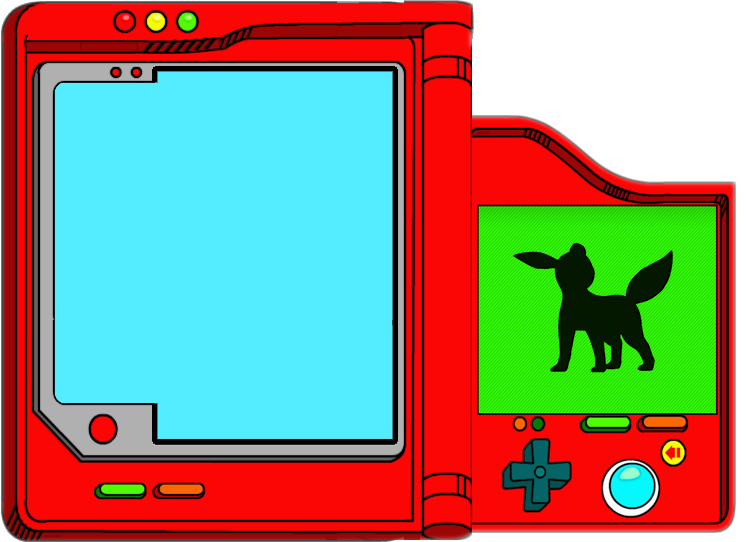
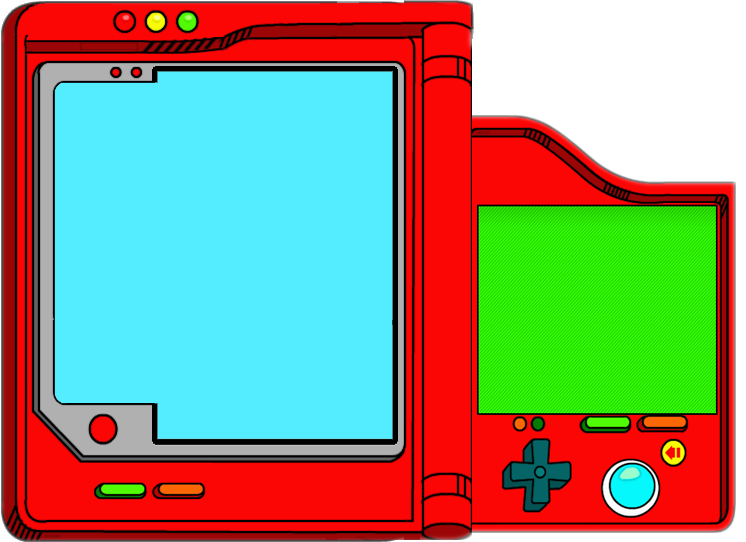
PreviewImage in Form CreatePokemon

Changed region(s): [[0.6783, 0.4428, 0.9249, 0.7085]]

diff --git a/client/src/pages/CreatePokemon/CreatePokemon.js b/client/src/pages/CreatePokemon/CreatePokemon.js
@@ -17,6 +17,8 @@ import {
   SelectedTypeOption,
   SelectedTypeButtonOption,
   SubmitButton,
+  PreviewImage,
+  PreviewImageContainer,
 } from "./CreatePokemon.styled-component";
 
 import pokedex from "../../assets/pokedex.png";
@@ -152,155 +154,165 @@ const CreatePokemon = () => {
   return (
     <CreatePokemonContainer>
       <ImageOverlay src={pokedex} />
-      <FormContainer>
-        <form action="POST" onSubmit={handleSubmit}>
-          <InputContainer>
-            {errors.name && <ErrorMsg>{errors.name}</ErrorMsg>}
-            <StyledLabel>Pokemon Name:</StyledLabel>
-            <StyledInput
-              autoComplete="off"
-              type="text"
-              value={pokemonData.name}
-              name="name"
-              placeholder="Pokemon Name"
-              title="Only letters are allowed without special characters"
-              required
-              onChange={handleChange}
-            />
-          </InputContainer>
-          <InputContainer>
-            {errors.img && <ErrorMsg>{errors.img}</ErrorMsg>}
-            <StyledLabel>Pokemon Image:</StyledLabel>
-            <StyledInput
-              placeholder="Pokemon image Link"
-              autoComplete="off"
-              type="text"
-              value={pokemonData.img}
-              name="img"
-              required
-              onChange={handleChange}
-            />
-          </InputContainer>
-          <InputContainer>
-            {errors.hp && <ErrorMsg>{errors.hp}</ErrorMsg>}
-            <StyledLabel>Pokemon hp:</StyledLabel>
-            <StyledInput
-              autoComplete="off"
-              type="text"
-              value={pokemonData.hp}
-              name="hp"
-              placeholder="Pokemon level of hp"
-              required
-              title="Only numbers are allowed"
-              onChange={handleChange}
-            />
-          </InputContainer>
-          <InputContainer>
-            {errors.attack && <ErrorMsg>{errors.attack}</ErrorMsg>}
-            <StyledLabel>Pokemon attack:</StyledLabel>
-            <StyledInput
-              autoComplete="off"
-              type="text"
-              value={pokemonData.attack}
-              name="attack"
-              placeholder="Pokemon level of attack"
-              title="Only numbers are allowed"
-              required
-              onChange={handleChange}
-            />
-          </InputContainer>
-          <InputContainer>
-            {errors.defense && <ErrorMsg>{errors.defense}</ErrorMsg>}
-            <StyledLabel>Pokemon defense:</StyledLabel>
-            <StyledInput
-              autoComplete="off"
-              type="text"
-              value={pokemonData.defense}
-              name="defense"
-              placeholder="Pokemon level of defense"
-              title="Only numbers are allowed"
-              required
-              onChange={handleChange}
-            />
-          </InputContainer>
-          <InputContainer>
-            {errors.speed && <ErrorMsg>{errors.speed}</ErrorMsg>}
-            <StyledLabel>Pokemon speed:</StyledLabel>
-            <StyledInput
-              autoComplete="off"
-              type="text"
-              value={pokemonData.speed}
-              name="speed"
-              placeholder="Pokemon speed"
-              title="Only numbers are allowed"
-              onChange={handleChange}
-            />
-          </InputContainer>
-          <InputContainer>
-            {errors.height && <ErrorMsg>{errors.height}</ErrorMsg>}
-            <StyledLabel>Pokemon height:</StyledLabel>
-            <StyledInput
-              autoComplete="off"
-              type="decimal"
-              value={pokemonData.height}
-              name="height"
-              placeholder="Pokemon height"
-              title="Only numbers are allowed"
-              onChange={handleChange}
-            />
-          </InputContainer>
-          <InputContainer>
-            {errors.weight && <ErrorMsg>{errors.weight}</ErrorMsg>}
-            <StyledLabel>Pokemon weight:</StyledLabel>
-            <StyledInput
-              autoComplete="off"
-              type="decimal"
-              value={pokemonData.weight}
-              name="weight"
-              placeholder="Pokemon weight"
-              title="Only numbers are allowed"
-              onChange={handleChange}
-            />
-          </InputContainer>
-          <InputContainer>
-            <PokemonTypeContainer>
-              <StyledSelect
-                value="default"
-                name="type"
-                onChange={handleTypeSelect}
-              >
-                <option disabled value="default">
-                  Select up to two Types
-                </option>
-                {allTypes.map((type) => (
-                  <option value={type.name} key={type.name}>
-                    {type.name}
+      {/* Contenedor dividido en dos secciones con estilo flex */}
+      <div style={{ display: "flex", justifyContent: "space-between" }}>
+        {/* Contenedor para campos del formulario */}
+        <FormContainer>
+          <form action="POST" onSubmit={handleSubmit}>
+            <InputContainer>
+              {errors.name && <ErrorMsg>{errors.name}</ErrorMsg>}
+              <StyledLabel>Pokemon Name:</StyledLabel>
+              <StyledInput
+                autoComplete="off"
+                type="text"
+                value={pokemonData.name}
+                name="name"
+                placeholder="Pokemon Name"
+                title="Only letters are allowed without special characters"
+                required
+                onChange={handleChange}
+              />
+            </InputContainer>
+            <InputContainer>
+              {errors.img && <ErrorMsg>{errors.img}</ErrorMsg>}
+              <StyledLabel>Pokemon Image:</StyledLabel>
+              <StyledInput
+                placeholder="Pokemon image Link"
+                autoComplete="off"
+                type="text"
+                value={pokemonData.img}
+                name="img"
+                required
+                onChange={handleChange}
+              />
+            </InputContainer>
+            <InputContainer>
+              {errors.hp && <ErrorMsg>{errors.hp}</ErrorMsg>}
+              <StyledLabel>Pokemon hp:</StyledLabel>
+              <StyledInput
+                autoComplete="off"
+                type="text"
+                value={pokemonData.hp}
+                name="hp"
+                placeholder="Pokemon level of hp"
+                required
+                title="Only numbers are allowed"
+                onChange={handleChange}
+              />
+            </InputContainer>
+            <InputContainer>
+              {errors.attack && <ErrorMsg>{errors.attack}</ErrorMsg>}
+              <StyledLabel>Pokemon attack:</StyledLabel>
+              <StyledInput
+                autoComplete="off"
+                type="text"
+                value={pokemonData.attack}
+                name="attack"
+                placeholder="Pokemon level of attack"
+                title="Only numbers are allowed"
+                required
+                onChange={handleChange}
+              />
+            </InputContainer>
+            <InputContainer>
+              {errors.defense && <ErrorMsg>{errors.defense}</ErrorMsg>}
+              <StyledLabel>Pokemon defense:</StyledLabel>
+              <StyledInput
+                autoComplete="off"
+                type="text"
+                value={pokemonData.defense}
+                name="defense"
+                placeholder="Pokemon level of defense"
+                title="Only numbers are allowed"
+                required
+                onChange={handleChange}
+              />
+            </InputContainer>
+            <InputContainer>
+              {errors.speed && <ErrorMsg>{errors.speed}</ErrorMsg>}
+              <StyledLabel>Pokemon speed:</StyledLabel>
+              <StyledInput
+                autoComplete="off"
+                type="text"
+                value={pokemonData.speed}
+                name="speed"
+                placeholder="Pokemon speed"
+                title="Only numbers are allowed"
+                onChange={handleChange}
+              />
+            </InputContainer>
+            <InputContainer>
+              {errors.height && <ErrorMsg>{errors.height}</ErrorMsg>}
+              <StyledLabel>Pokemon height:</StyledLabel>
+              <StyledInput
+                autoComplete="off"
+                type="decimal"
+                value={pokemonData.height}
+                name="height"
+                placeholder="Pokemon height"
+                title="Only numbers are allowed"
+                onChange={handleChange}
+              />
+            </InputContainer>
+            <InputContainer>
+              {errors.weight && <ErrorMsg>{errors.weight}</ErrorMsg>}
+              <StyledLabel>Pokemon weight:</StyledLabel>
+              <StyledInput
+                autoComplete="off"
+                type="decimal"
+                value={pokemonData.weight}
+                name="weight"
+                placeholder="Pokemon weight"
+                title="Only numbers are allowed"
+                onChange={handleChange}
+              />
+            </InputContainer>
+            <InputContainer>
+              <PokemonTypeContainer>
+                <StyledSelect
+                  value="default"
+                  name="type"
+                  onChange={handleTypeSelect}
+                >
+                  <option disabled value="default">
+                    Select up to two Types
                   </option>
-                ))}
-              </StyledSelect>
+                  {allTypes.map((type) => (
+                    <option value={type.name} key={type.name}>
+                      {type.name}
+                    </option>
+                  ))}
+                </StyledSelect>
 
-              {/* Mostrar los tipos seleccionados con los estilos */}
-              <SelectedTypesContainer>
-                {pokemonData.types.map((selected) => (
-                  <SelectedType key={selected.name}>
-                    <SelectedTypeOption>{selected.name}</SelectedTypeOption>
-                    <SelectedTypeButtonOption
-                      id={selected.name}
-                      onClick={handleClick}
-                    >
-                      x
-                    </SelectedTypeButtonOption>
-                  </SelectedType>
-                ))}
-              </SelectedTypesContainer>
-            </PokemonTypeContainer>
-            <SubmitButton type="submit">Crear Pokemon</SubmitButton>
-          </InputContainer>
-        </form>
-      </FormContainer>
-      {notificationVisible && (
-        <Notification onClose={() => setNotificationVisible(false)} />
-      )}
+                {/* Mostrar los tipos seleccionados con los estilos */}
+                <SelectedTypesContainer>
+                  {pokemonData.types.map((selected) => (
+                    <SelectedType key={selected.name}>
+                      <SelectedTypeOption>{selected.name}</SelectedTypeOption>
+                      <SelectedTypeButtonOption
+                        id={selected.name}
+                        onClick={handleClick}
+                      >
+                        x
+                      </SelectedTypeButtonOption>
+                    </SelectedType>
+                  ))}
+                </SelectedTypesContainer>
+              </PokemonTypeContainer>
+              <SubmitButton type="submit">Crear Pokemon</SubmitButton>
+            </InputContainer>
+          </form>
+        </FormContainer>
+        {/* Contenedor para previsualización de la imagen (en el lado derecho) */}
+        <PreviewImageContainer>
+          {pokemonData.img && (
+            <PreviewImage src={pokemonData.img} alt="Preview" />
+          )}
+        </PreviewImageContainer>
+        {notificationVisible && (
+          <Notification onClose={() => setNotificationVisible(false)} />
+        )}
+      </div>
     </CreatePokemonContainer>
   );
 };

diff --git a/client/src/pages/CreatePokemon/CreatePokemon.styled-component.js b/client/src/pages/CreatePokemon/CreatePokemon.styled-component.js
@@ -23,6 +23,7 @@ export const FormContainer = styled.div`
   top: 51%;
   border-radius: 10px;
   text-align: center;
+  z-index: 3;
 
   @media screen and (max-width: 768px) {
     width: 250px;
@@ -183,4 +184,26 @@ export const SubmitButton = styled.button`
     background-color: #aeff00;
     box-shadow: -5px 5px 0px #658b14, 1px 1px 0px black;
   }
+`;
+
+export const PreviewImageContainer = styled.div`
+  width: 100%;
+  display: flex;
+  justify-content: center;
+  align-items: flex-end;
+  padding: 20px;
+  margin-top: 140px;
+  position: relative;
+  height: 50vh;
+`;
+
+// Estilos para la previsualización de la imagen
+export const PreviewImage = styled.img`
+  max-width: 15%;
+  height: auto;
+  position: absolute;
+  z-index: 999;
+  bottom: 0;
+  transform: translate(-50%, 0);
+  left: 65%;
 `;
